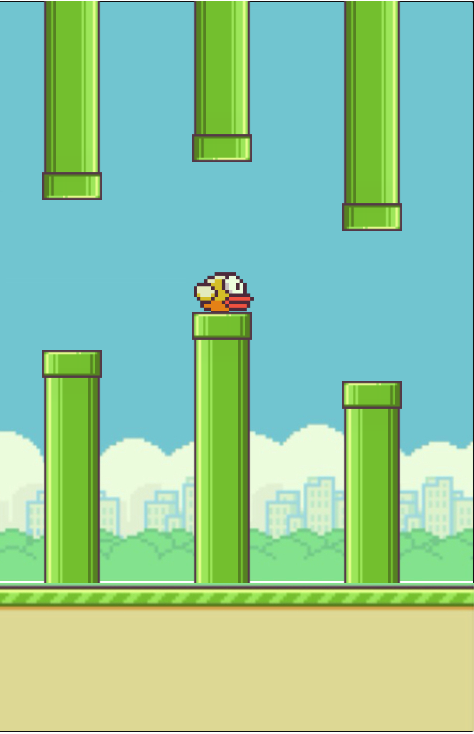
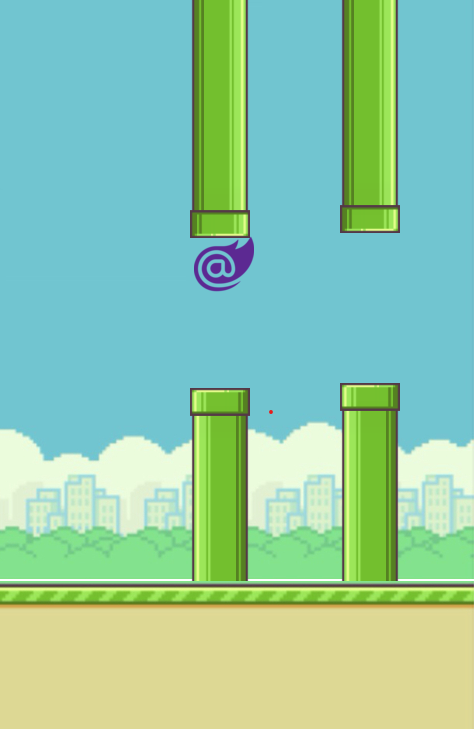
changed bird image

diff --git a/BlazorBird/BlazorBird/wwwroot/css/app.css b/BlazorBird/BlazorBird/wwwroot/css/app.css
@@ -49,9 +49,9 @@ html, body {
 }
 
 .bird {
-    background-image: url(../images/flappy-bird.png);
+    background-image: url(../images/blazor-bird.png);
     width: 60px;
-    height: 45px;
+    height: 60px;
     left: 220px;
     position: absolute;
 }

diff --git a/BlazorBird/BlazorBird/Models/GameManager.cs b/BlazorBird/BlazorBird/Models/GameManager.cs
@@ -74,9 +74,9 @@ namespace BlazorBird.Models
             //check for collision with bird 
             if (pipeInCollisonZone != null)
             {
-                //150 is the ground height. 45 is the bird height in css :(
+                //150 is the ground height. 60 is the bird height in css :(
                 bool hasCollidedWithBottomPipe = Bird.DistanceFromGround < pipeInCollisonZone.TopOfLowerPipe;
-                bool hasCollidedWithTopPipe = Bird.DistanceFromGround + 45 > pipeInCollisonZone.BottomOfTopPipe;
+                bool hasCollidedWithTopPipe = Bird.DistanceFromGround + 60 > pipeInCollisonZone.BottomOfTopPipe;
 
                 if (hasCollidedWithBottomPipe || hasCollidedWithTopPipe)
 
